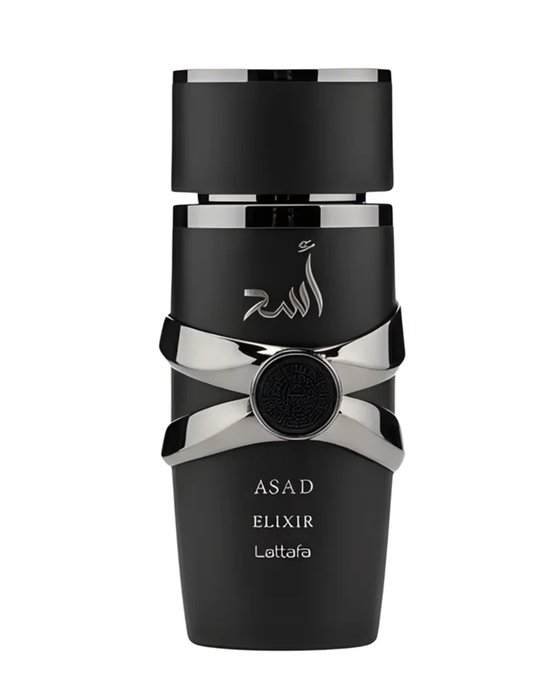
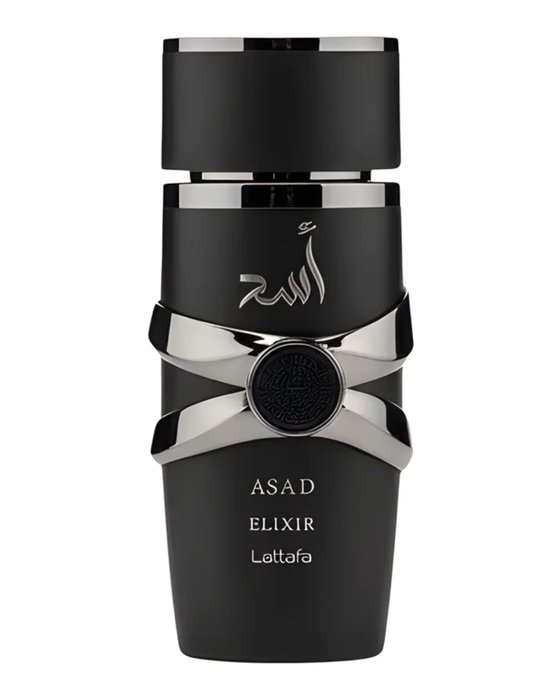
Fichas: tarjeta completa clicable, reseña y puntuación Parfumo; foto Asad Elixir en mejor calidad
Claude-Session: https://claude.ai/code/session_01Pf7ehYSn89z7sFPeS3WbpL

Changed region(s): [[0.2429, 0.03, 0.7589, 0.96], [0.425, 0.69, 0.5768, 0.81]]

diff --git a/index.html b/index.html
@@ -255,7 +255,20 @@ dialog.pd[open]{animation:pdin .28s cubic-bezier(.2,.7,.2,1)}
 .pd .pfacts small{display:block;font-size:.72rem;letter-spacing:.1em;text-transform:uppercase;color:var(--mist)}
 .pd .pfacts b{font-weight:500;font-size:.92rem}
 .pd .buy{display:grid;grid-template-columns:1fr 1fr;gap:10px}
-.pd .ask{text-align:center;color:var(--amber);font-size:.9rem;text-decoration:none}
+
+.pd .prate{display:flex;align-items:center;gap:14px;border:1px solid var(--line);border-radius:14px;padding:12px 14px;background:rgba(234,169,91,.06)}
+.pd .prate b{font-family:var(--f-display);font-weight:400;font-size:2rem;line-height:1;color:var(--amber);font-variant-numeric:tabular-nums}
+.pd .prate b small{font-family:var(--f-body);font-size:.85rem;color:var(--mist)}
+.pd .prate .rbar{height:6px;border-radius:99px;background:var(--line);overflow:hidden;margin:6px 0 4px}
+.pd .prate .rbar i{display:block;height:100%;background:linear-gradient(90deg,var(--rose),var(--amber))}
+.pd .prate .rtxt{flex:1;min-width:0;font-size:.82rem;color:var(--mist)}
+.pd .prate a{color:var(--mist)}
+.pd .prev{border-left:2px solid var(--amber);padding:2px 0 2px 12px}
+.pd .prev small{display:block;font-size:.72rem;letter-spacing:.1em;text-transform:uppercase;color:var(--mist);margin-bottom:4px}
+.row[data-open],.card[data-open]{cursor:pointer}
+.row[data-open]:hover{border-color:#5a4878}
+.card[data-open]:hover{border-color:#5a4878}
+.pd .ask{display:block;text-align:center;color:var(--champagne);background:transparent;border:1px solid var(--line);border-radius:12px;padding:10px;font-size:.9rem;text-decoration:none}
 @media (max-width:420px){.pd .pfacts{grid-template-columns:1fr}}
 
 
@@ -697,8 +710,9 @@ body.has-order footer{padding-bottom:150px}
     </svg>`;
   }
   function bg(p){ const [a,b] = FAM[p.f] || ["#e2a04a","#7a3a2a"]; return `background:radial-gradient(80% 90% at 50% 40%,${a}55,transparent 70%),radial-gradient(60% 60% at 85% 10%,${b}66,transparent 70%),var(--velvet-2)`; }
+  const cid = p => (CATALOGO.find(c => c.n===p.n && c.g===p.g) || CATALOGO.find(c => c.n===p.n) || {}).id || "";
   function visual(p){
-    const src = p.img || FOTOS[p.id];
+    const src = p.img || FOTOS[p.id] || FOTOS[cid(p)];
     return src ? `<div class="visual photo"><img src="${src}" alt="Frasco de ${esc(p.n)}" loading="lazy"><span class="badge">Foto del frasco</span></div>`
                : `<div class="visual" style="${bg(p)}">${bottle(p)}<span class="badge">Decant Stella</span></div>`;
   }
@@ -712,7 +726,7 @@ body.has-order footer{padding-bottom:150px}
     document.getElementById("tab-h").setAttribute("aria-pressed", String(gen==="h"));
     document.getElementById("tab-m").setAttribute("aria-pressed", String(gen==="m"));
     document.getElementById("shelf").innerHTML = PERFUMES.filter(p => p.g===gen).map(p => `
-      <article class="card">
+      <article class="card" data-open="${cid(p)}">
         ${visual(p)}
         <div class="top"><span class="fam">${p.f}</span><span class="season">${p.t}</span></div>
         <div><div class="brand">${esc(p.m)}</div><h3>${esc(p.n)}</h3><div class="conc">${esc(p.c)}</div></div>
@@ -745,7 +759,7 @@ body.has-order footer{padding-bottom:150px}
     const btn = (p,ml) => { const k=p.id+"|"+ml, n=order[k]||0;
       return `<button type="button" class="addb${n?" on":""}" data-k="${k}" aria-label="Agregar ${esc(p.n)} de ${ml} ml al pedido"><small>${ml} ml</small><b>${clp(p["p"+ml])}</b><span class="q">${n}</span></button>`; };
     document.getElementById("list").innerHTML = list.length ? list.map(p => `
-      <article class="row">
+      <article class="row" data-open="${p.id}">
         <button type="button" class="tbtn" data-open="${p.id}" aria-label="Ver ficha de ${esc(p.n)}">${thumb(p)}</button>
         <div class="rn"><div class="rb">${esc(p.m)} · ${esc(p.c)}</div><h3 data-open="${p.id}">${esc(p.n)}</h3>
           <div class="rm"><span class="k"><span class="dot" style="background:${(FAM[p.f]||["#e2a04a"])[0]}"></span>${p.f}</span><span>${p.t}</span>${p.aviso?`<span class="soon">${esc(p.aviso)}</span>`:""}</div></div>
@@ -787,11 +801,12 @@ body.has-order footer{padding-bottom:150px}
 
   /* ficha de perfume */
   const DESC = {"lme": {"d": "Versión más intensa y dulce del clásico Le Mâle. Abre con lavanda y menta, y se vuelve una mezcla cálida de miel, vainilla y tabaco que se nota a distancia.", "uso": "Noches, salidas y citas en clima frío", "est": "Duración muy alta · Estela fuerte"}, "1m": {"d": "Un ícono de los 2000: fresco y especiado al inicio, con canela y rosa, y un fondo de cuero y ámbar. Llamativo y fácil de reconocer.", "uso": "Fiestas, salidas nocturnas y otoño-invierno", "est": "Duración alta · Estela fuerte"}, "star": {"d": "Fresco y limpio, con cítricos y bambú sobre una base suave de sándalo y almizcle. Discreto, elegante y fácil de llevar.", "uso": "Oficina, día a día y clima templado", "est": "Duración media · Estela suave"}, "cdn": {"d": "Inspirado en un clásico ahumado de nicho: limón y piña jugosos con un fondo de abedul ahumado. Muy rendidor y versátil.", "uso": "Uso diario, oficina y salidas", "est": "Duración alta · Estela fuerte"}, "vulcan": {"d": "Frutal tropical con mango y jengibre que termina dulce y ambarado. Juvenil, alegre y muy notorio.", "uso": "Verano, salidas de día y panoramas al aire libre", "est": "Duración alta · Estela media-fuerte"}, "odyssey": {"d": "Mandarina dulce y acaramelada con un toque de azafrán y haba tonka. Cítrico pero cálido, muy agradable de cerca.", "uso": "Todo el año, día y tarde", "est": "Duración alta · Estela media"}, "heroes": {"d": "Fresco y frutal con pera, jengibre y limón, y un fondo suave de cuero. Energético y moderno.", "uso": "Día a día, primavera-verano", "est": "Duración media · Estela media"}, "erosenergy": {"d": "La versión cítrica y luminosa de Eros: naranja sanguina, pomelo y pimienta rosa. Vibrante y muy fresca.", "uso": "Verano, deporte, día y vacaciones", "est": "Duración media · Estela media"}, "ralph": {"d": "Floral frutal fresco con manzana verde y mandarina. Alegre, ligero y fácil de usar todos los días.", "uso": "Día a día, primavera-verano", "est": "Duración media · Estela suave"}, "hawas": {"d": "Acuático frutal con manzana y ciruela, y un fondo de ámbar gris. Muy fresco, gusta a casi todos.", "uso": "Verano, gimnasio, oficina y salidas de día", "est": "Duración muy alta · Estela fuerte"}, "hawasblack": {"d": "Hermano más profundo del Hawas: piña y pomelo con un fondo amaderado de pachulí y musgo. Fresco pero con más cuerpo.", "uso": "Todo el año, día y noche", "est": "Duración alta · Estela fuerte"}, "profondo": {"d": "La versión más intensa y marina de Acqua di Giò. Notas de mar, bergamota y lavanda con un fondo mineral y amaderado.", "uso": "Verano, oficina y ocasiones elegantes", "est": "Duración alta · Estela media"}, "amberoud": {"d": "Dulce afrutado con melón y piña sobre ámbar y vainilla. Llama la atención y deja huella.", "uso": "Salidas, eventos y todo el año", "est": "Duración muy alta · Estela fuerte"}, "liquidbrun": {"d": "Gourmand especiado con cardamomo, azahar y vainilla. Cálido, envolvente y elegante.", "uso": "Noches, citas y clima frío", "est": "Duración muy alta · Estela fuerte"}, "scandal": {"d": "Versión intensa de Scandal Pour Homme: salvia y cuero con un fondo amaderado de vetiver. Seductor y con carácter.", "uso": "Noches, citas y otoño-invierno", "est": "Duración alta · Estela fuerte"}, "asad": {"d": "Especiado y dulce con pimienta negra, tabaco y vainilla. Potente y masculino, ideal para el frío.", "uso": "Noches y clima frío", "est": "Duración muy alta · Estela fuerte"}, "asadelixir": {"d": "Más oscuro y resinoso que el Asad: azafrán, tabaco, incienso y vainilla. Intenso y sofisticado.", "uso": "Noches, eventos y clima frío", "est": "Duración muy alta · Estela fuerte"}, "asadzanzibar": {"d": "La versión fresca de Asad: lavanda marina, coco y sal con un toque de incienso. Veraniego y distinto.", "uso": "Verano, playa y día", "est": "Duración alta · Estela media"}, "asadbourbon": {"d": "Ciruela, cacao y vainilla con un fondo de vetiver. Dulce, licoroso y elegante.", "uso": "Noches y clima frío", "est": "Duración alta · Estela fuerte"}, "212fymujer": {"d": "Floral frutal con frambuesa y azahar sobre sándalo. Juvenil, dulce y luminoso.", "uso": "Día a día, salidas y primavera-verano", "est": "Duración media · Estela media"}, "irisabsolu": {"d": "La Vie Est Belle con más iris: dulce, polvoso y femenino, con grosella negra y pachulí. Elegante y reconfortante.", "uso": "Todo el año, oficina y salidas", "est": "Duración alta · Estela media-fuerte"}, "9pmelixir": {"d": "Especiado y cálido con cardamomo, cuero y vainilla. Muy rendidor por su precio.", "uso": "Noches y clima frío", "est": "Duración muy alta · Estela fuerte"}, "labomba": {"d": "Floral frutal tropical con pitahaya y peonía, y un fondo de vainilla y pachulí. Alegre, femenino y con mucha presencia.", "uso": "Salidas, fiestas y primavera-verano", "est": "Duración alta · Estela media-fuerte"}, "yellowdream": {"d": "Limón italiano y rosa sobre almizcle blanco. Luminoso, limpio y muy elegante.", "uso": "Día, oficina y primavera-verano", "est": "Duración media · Estela media"}, "si": {"d": "Chypre moderno con grosella negra, rosa y vainilla. Elegante, sensual y atemporal.", "uso": "Oficina, cenas y todo el año", "est": "Duración alta · Estela media"}, "lanuit": {"d": "Clásico de seducción: cardamomo y lavanda sobre cedro y vetiver. Suave, cercano y muy elegante.", "uso": "Citas, noches y otoño-invierno", "est": "Duración media · Estela suave-media"}, "amoramor": {"d": "Frutal dulce con naranja sanguina y grosella negra sobre vainilla. Romántico y alegre.", "uso": "Día a día y primavera-verano", "est": "Duración media · Estela media"}, "poloblue": {"d": "Acuático fresco con melón y pepino, y un fondo de gamuza. Limpio y deportivo.", "uso": "Verano, deporte y oficina", "est": "Duración media · Estela media"}, "blossom": {"d": "Floral frutal con frambuesa, guisante de olor y rosa. Dulce, femenino y primaveral.", "uso": "Día, salidas y primavera-verano", "est": "Duración media · Estela media"}, "212mennyc": {"d": "El 212 clásico de hombre: pomelo, bergamota y jengibre con un fondo de incienso, sándalo y almizcle. Limpio, urbano y versátil.", "uso": "Oficina, día a día y todo el año", "est": "Duración media · Estela media"}, "lmleparfum": {"d": "La versión más elegante de Le Male: cardamomo, lavanda e iris sobre vainilla y maderas. Cálido y refinado.", "uso": "Noches, citas y otoño-invierno", "est": "Duración alta · Estela media-fuerte"}, "ckone": {"d": "El unisex fresco por excelencia: cítricos, té verde y almizcle limpio. Ligero, compartible y perfecto para el calor.", "uso": "Verano, gimnasio y día a día, para él o ella", "est": "Duración media · Estela suave"}};
+  const RATING = {"lme": {"s": 8.2, "n": 3927, "u": "https://www.parfumo.com/Perfumes/Jean_Paul_Gaultier/le-male-elixir"}, "1m": {"s": 6.9, "n": 3671, "u": "https://www.parfumo.com/Perfumes/Rabanne/1_Million_Eau_de_Toilette"}, "star": {"s": 7.5, "n": 431, "u": "https://www.parfumo.com/Perfumes/Montblanc/Starwalker_Eau_de_Toilette"}, "cdn": {"s": 7.5, "n": 4420, "u": "https://www.parfumo.com/Perfumes/Armaf/club-de-nuit-intense-man-eau-de-toilette"}, "vulcan": {"s": 8.0, "n": 1251, "u": "https://www.parfumo.com/Perfumes/french-avenue/feu"}, "odyssey": {"s": 7.6, "n": 265, "u": "https://www.parfumo.com/Perfumes/Armaf/odyssey-mandarin-sky"}, "erosenergy": {"s": 7.5, "n": 1602, "u": "https://www.parfumo.com/Perfumes/Versace/eros-energy"}, "ralph": {"s": 7.0, "n": 165, "u": "https://www.parfumo.com/Perfumes/Ralph_Lauren/Ralph"}, "hawas": {"s": 7.7, "n": 2146, "u": "https://www.parfumo.com/Perfumes/Rasasi/Hawas_for_Men"}, "hawasblack": {"s": 7.8, "n": 633, "u": "https://www.parfumo.com/Perfumes/Rasasi/hawas-black-black"}, "profondo": {"s": 7.2, "n": 322, "u": "https://www.parfumo.com/Perfumes/Giorgio_Armani/acqua-di-gio-profondo-parfum"}, "amberoud": {"s": 8.1, "n": 795, "u": "https://www.parfumo.com/Perfumes/Al_Haramain/haramain-amber-oud-gold-edition"}, "liquidbrun": {"s": 8.6, "n": 759, "u": "https://www.parfumo.com/Perfumes/french-avenue/liquid-brun-limited-edition"}, "scandal": {"s": 7.1, "n": 142, "u": "https://www.parfumo.com/Perfumes/Jean_Paul_Gaultier/scandal-pour-homme-intense"}, "asad": {"s": 7.6, "n": 2411, "u": "https://www.parfumo.com/Perfumes/Lattafa/asad-1"}, "asadelixir": {"s": 8.3, "n": 394, "u": "https://www.parfumo.com/Perfumes/Lattafa/asad-elixir-elixir"}, "asadzanzibar": {"s": 6.6, "n": 663, "u": "https://www.parfumo.com/Perfumes/Lattafa/asad-zanzibar"}, "asadbourbon": {"s": 7.7, "n": 447, "u": "https://www.parfumo.com/Perfumes/Lattafa/asad-bourbon"}, "irisabsolu": {"s": 7.4, "n": 236, "u": "https://www.parfumo.com/Perfumes/Lancome/la-vie-est-belle-iris-absolu"}, "9pmelixir": {"s": 7.8, "n": 170, "u": "https://www.parfumo.com/Perfumes/Afnan_Perfumes/9pm-elixir"}, "labomba": {"s": 6.6, "n": 377, "u": "https://www.parfumo.com/Perfumes/Carolina_Herrera/la-bomba"}, "yellowdream": {"s": 6.8, "n": 187, "u": "https://www.parfumo.com/Perfumes/Valentino/valentino-donna-born-in-roma-yellow-dream"}, "si": {"s": 7.3, "n": 1269, "u": "https://www.parfumo.com/Perfumes/Giorgio_Armani/Si"}, "lanuit": {"s": 8.4, "n": 5461, "u": "https://www.parfumo.com/Perfumes/Yves_Saint_Laurent/La_Nuit_de_L_Homme_Eau_de_Toilette"}, "amoramor": {"s": 7.2, "n": 498, "u": "https://www.parfumo.com/Perfumes/Cacharel/amor-amor-eau-de-toilette"}, "poloblue": {"s": 7.2, "n": 564, "u": "https://www.parfumo.com/Perfumes/Ralph_Lauren/Polo_Blue_Eau_de_Toilette"}, "blossom": {"s": 6.6, "n": 116, "u": "https://www.parfumo.com/Perfumes/Jimmy_Choo/Blossom"}, "212mennyc": {"s": 7.5, "n": 415, "u": "https://www.parfumo.com/Perfumes/Carolina_Herrera/212_Men_Eau_de_Toilette"}, "lmleparfum": {"s": 8.4, "n": 5937, "u": "https://www.parfumo.com/Perfumes/Tops/Men"}, "ckone": {"s": 6.8, "n": 2744, "u": "https://www.parfumo.com/Perfumes/Calvin_Klein/CK_One"}};
   const pdlg = document.getElementById("pdlg");
   let pdId = null;
   function renderPd(){
     const p = byId[pdId]; if (!p) return;
-    const x = DESC[p.id] || {}, src = FOTOS[p.id];
+    const x = DESC[p.id] || {}, src = FOTOS[p.id], rt = RATING[p.id];
     const notas = p.notas.replace(/\.$/,"").split(/, | y | e /).filter(Boolean);
     const b = ml => { const k=p.id+"|"+ml, n=order[k]||0;
       return `<button type="button" class="addb${n?" on":""}" data-k="${k}" aria-label="Agregar ${esc(p.n)} de ${ml} ml al pedido"><small>${ml} ml</small><b>${clp(p["p"+ml])}</b><span class="q">${n}</span></button>`; };
@@ -801,7 +816,8 @@ body.has-order footer{padding-bottom:150px}
       <div class="pb">
         <div><div class="pbrand">${esc(p.m)} · ${esc(p.c)}</div><h3 id="pdt">${esc(p.n)}</h3></div>
         <div class="pmeta"><span><span class="dot" style="background:${(FAM[p.f]||["#e2a04a"])[0]}"></span>${p.f}</span><span>${p.t}</span>${p.aviso?`<span class="soon">${esc(p.aviso)}</span>`:""}</div>
-        ${x.d?`<p class="pd-d">${esc(x.d)}</p>`:""}
+        ${x.d?`<div class="prev"><small>Reseña Stella</small><p class="pd-d">${esc(x.d)}</p></div>`:""}
+        ${rt?`<div class="prate"><b>${rt.s.toFixed(1)}<small>/10</small></b><div class="rtxt">Puntuación de aroma en Parfumo<div class="rbar"><i style="width:${rt.s*10}%"></i></div>${rt.n.toLocaleString("es-CL")} votos de la comunidad · <a href="${rt.u}" target="_blank" rel="noopener">ver fuente</a></div></div>`:`<div class="prate"><div class="rtxt">Todavía no tiene suficientes votos en Parfumo para mostrar una puntuación.</div></div>`}
         <ul class="pnotes" aria-label="Notas">${notas.map(n=>`<li>${esc(n.charAt(0).toUpperCase()+n.slice(1))}</li>`).join("")}</ul>
         <div class="pfacts">${x.uso?`<div><small>Ideal para</small><b>${esc(x.uso)}</b></div>`:""}${x.est?`<div><small>Duración y estela</small><b>${esc(x.est)}</b></div>`:""}</div>
         <div class="buy">${b(7)}${b(10)}</div>
@@ -809,7 +825,8 @@ body.has-order footer{padding-bottom:150px}
       </div>`;
   }
   function openPd(id){ pdId=id; renderPd(); pdlg.setAttribute("aria-labelledby","pdt"); if (pdlg.showModal) pdlg.showModal(); else pdlg.setAttribute("open",""); }
-  document.getElementById("list").addEventListener("click", e => { const o=e.target.closest("[data-open]"); if (o) openPd(o.dataset.open); });
+  document.getElementById("list").addEventListener("click", e => { if (e.target.closest(".addb,a")) return; const o=e.target.closest("[data-open]"); if (o) openPd(o.dataset.open); });
+  document.getElementById("shelf")?.addEventListener("click", e => { if (e.target.closest("a,button")) return; const o=e.target.closest("[data-open]"); if (o && byId[o.dataset.open]) openPd(o.dataset.open); });
   pdlg.addEventListener("click", e => {
     if (e.target===pdlg || e.target.closest("[data-close]")) { pdlg.close(); return; }
     const b=e.target.closest(".addb"); if (!b) return;
